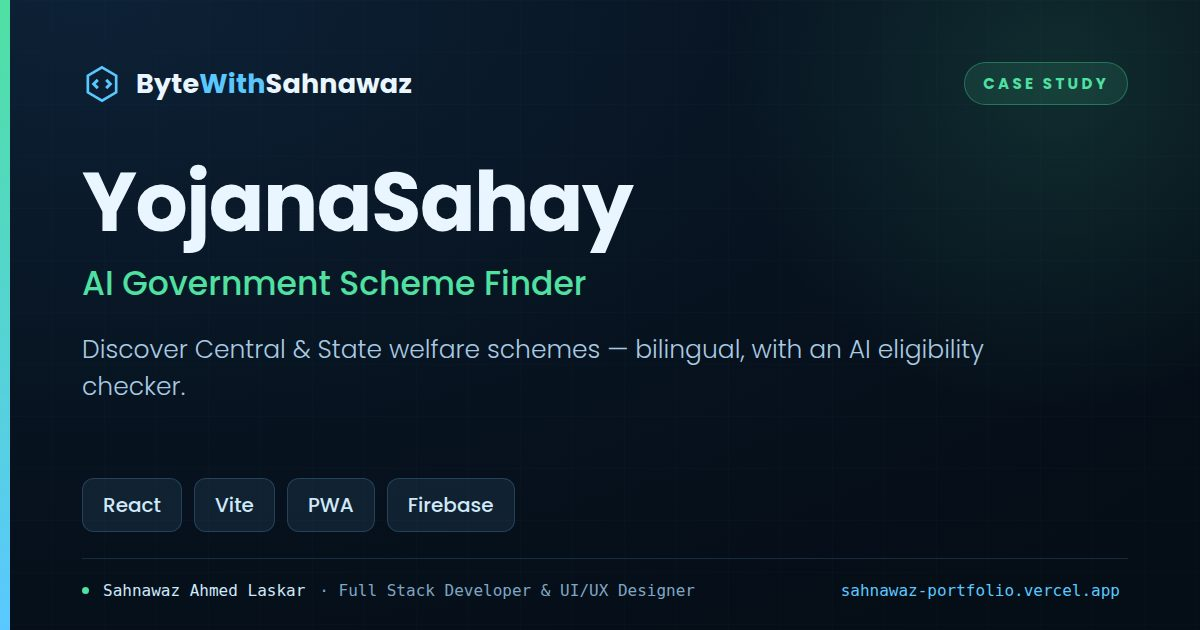
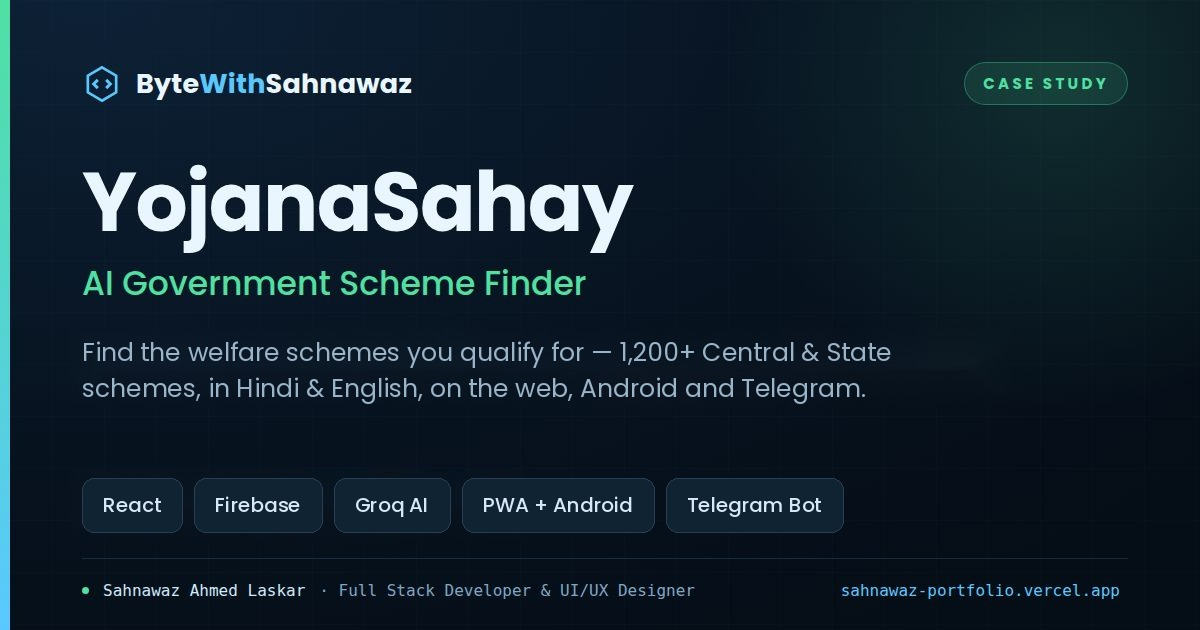
Fresh YojanaSahay share card; /yojanasahay and /studylens give rich link previews
- og/yojanasahay.jpg: current description (1,200+ schemes; web, Android, Telegram) and stack
- share text updated to match
- /yojanasahay and /studylens now go through the share endpoint, so WhatsApp/LinkedIn/X
  show the case-study card before visitors are sent to the case study

Claude-Session: https://claude.ai/code/session_01NHvyMtY8vmPVP3jSpp9hGU

Changed region(s): [[0.0925, 0.754, 0.7092, 0.8444], [0.0617, 0.5429, 0.8325, 0.573], [0.0617, 0.6032, 0.7092, 0.6333]]

diff --git a/api/share.js b/api/share.js
@@ -14,7 +14,7 @@ const LINKS = {
   yojanasahay: {
     to: '/?case=yojanasahay',
     title: 'YojanaSahay — AI Government Scheme Finder',
-    desc: 'A case study by Sahnawaz Ahmed Laskar: discover Central & State welfare schemes, bilingual, with an AI eligibility checker. Built with React, Vite and Firebase.',
+    desc: 'A case study by Sahnawaz Ahmed Laskar: find the welfare schemes you qualify for — 1,200+ Central & State schemes, in Hindi & English, on the web, Android and Telegram. Built with React, Firebase and Groq AI.',
   },
   studylens: {
     to: '/?case=studylens',
